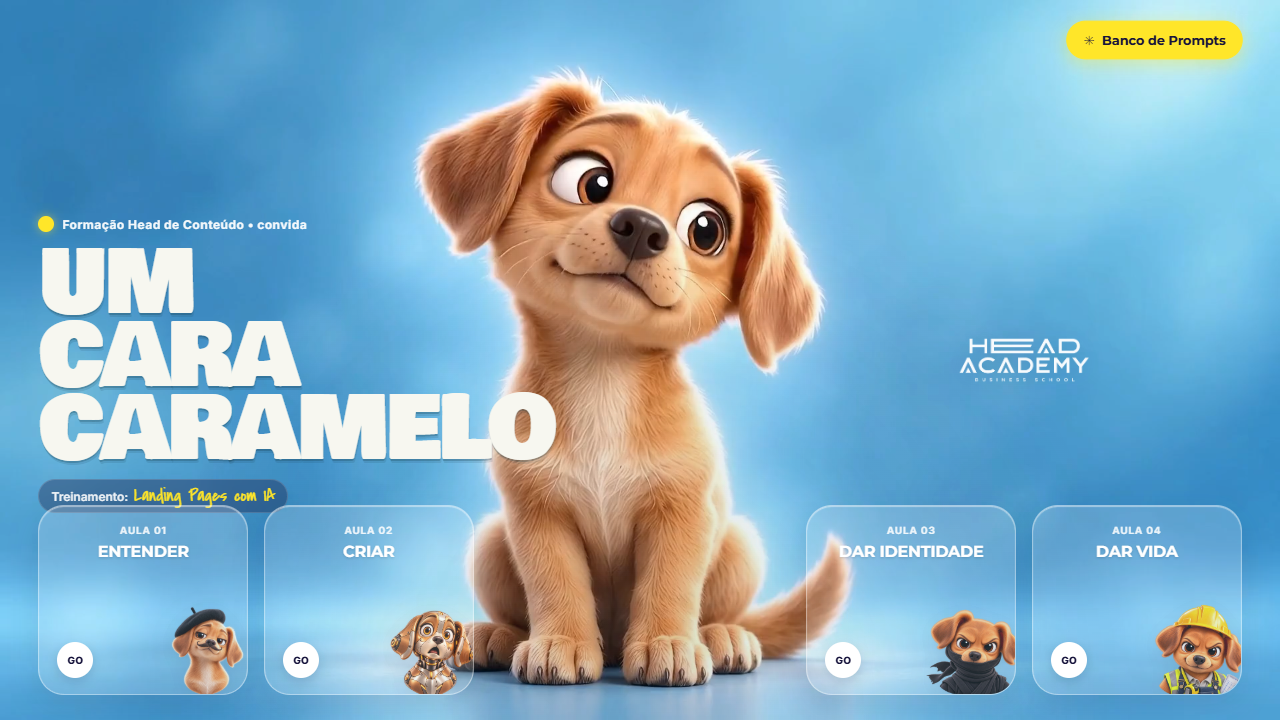
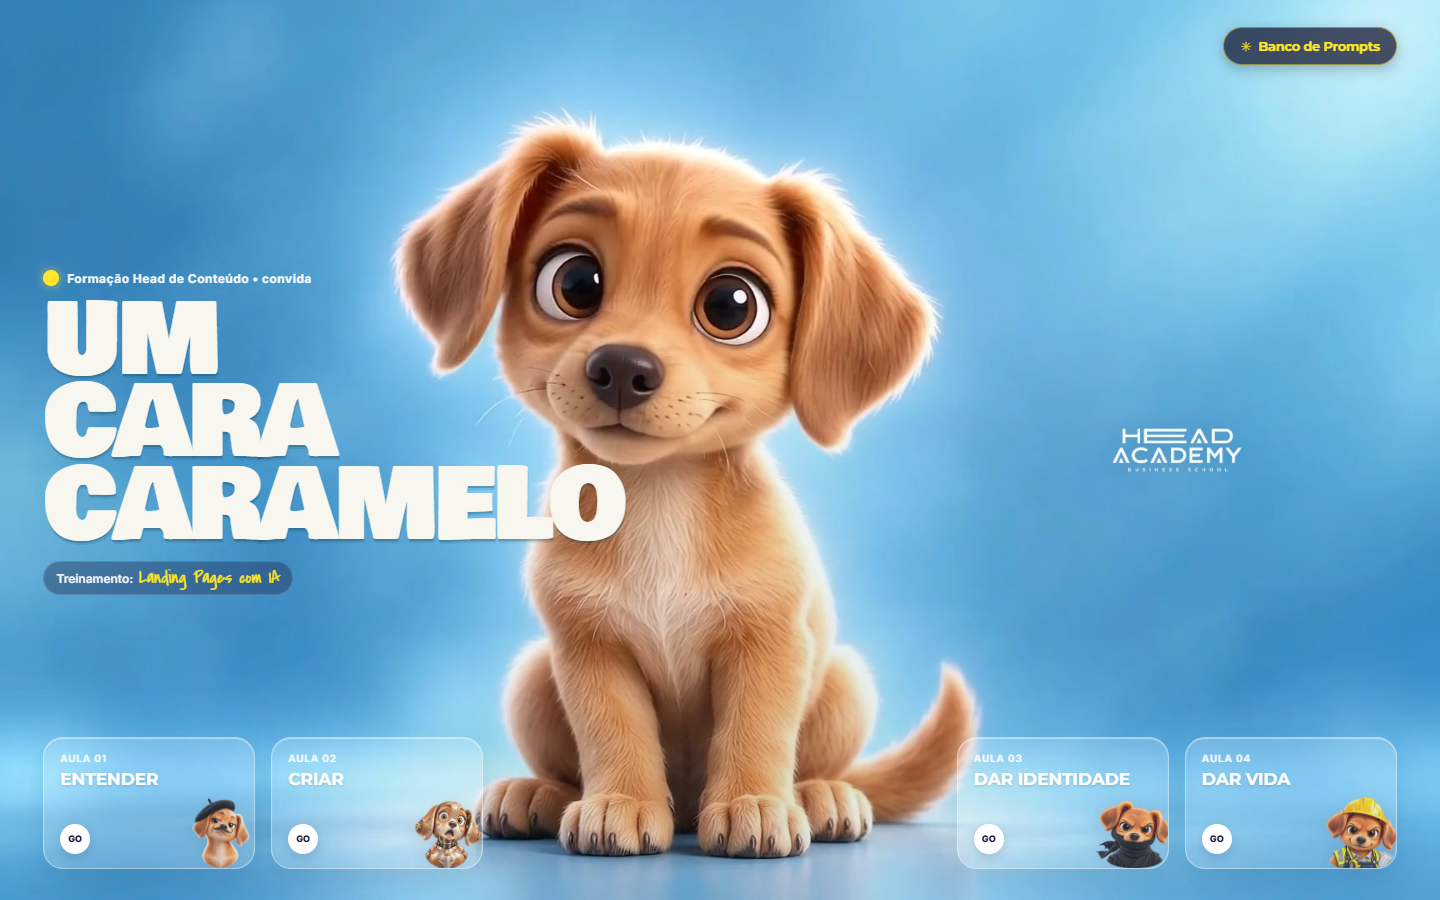
fix(aula-head): compactar cards das aulas na abertura

diff --git a/src/aula-head/intro.css b/src/aula-head/intro.css
@@ -13,11 +13,22 @@
 }
 .head-intro .mini-card-title {
   font-family: Montserrat, Inter, sans-serif;
-  font-size: clamp(12px, 1.25vw, 21px);
+  font-size: clamp(12px, 1.2vw, 18px);
 }
 .head-intro .prompt-bank-trigger-btn { gap: 7px; }
 .head-intro .hero-bottom-actions { pointer-events: none; }
-.head-intro .mini-game-card { pointer-events: auto; }
+.head-intro .mini-game-card {
+  pointer-events: auto;
+  height: clamp(112px, 16dvh, 132px);
+  min-height: 0;
+  padding: 14px 16px;
+  border-radius: 20px;
+  text-align: left;
+}
+.head-intro .mini-card-copy { margin-bottom: 0; }
+.head-intro .mini-card-lesson { margin-bottom: 4px; }
+.head-intro .mini-card-go-btn { width: 30px; height: 30px; font-size: 9px; }
+.head-intro .mini-card-bg-crop { width: 76px; height: 76px; bottom: -4px; right: -3px; }
 @media (max-width: 767px) {
   .head-intro.hero-scene { height: 100dvh; min-height: 0; position: fixed; overflow: hidden; }
   .head-intro .hero-bottom-actions {
@@ -39,7 +50,7 @@
   }
   .head-intro .mini-game-card {
     width: 100%;
-    height: clamp(88px, 13dvh, 112px);
+    height: clamp(84px, 11.5dvh, 96px);
     min-height: 0;
     padding: 12px;
   }
@@ -47,6 +58,7 @@
   .head-intro .mini-card-go-btn { position: absolute; left: 12px; bottom: 9px; width: 24px; height: 24px; font-size: 8px; }
   .head-intro .mini-card-title { font-size: clamp(12px, 3vw, 18px); max-width: 75%; }
   .head-intro .mini-card-lesson { font-size: 9px; }
+  .head-intro .mini-card-bg-crop { width: 62px; height: 62px; }
   .head-intro .left-copy-column { position: absolute; top: 16%; bottom: auto; left: 0; padding-top: 0; }
   .head-intro .hero-display-headline { font-size: clamp(36px, 11vw, 72px); }
   .head-intro .course-pill-tag { margin-top: 12px; font-size: 11px; }
@@ -62,7 +74,9 @@
   .head-intro .hero-display-headline { font-size: clamp(42px, 8vw, 80px); }
   .head-intro .left-copy-column { top: 16%; }
   .head-intro .hero-bottom-actions { bottom: 18px; }
-  .head-intro .mini-game-card { height: clamp(78px, 23dvh, 120px); }
+  .head-intro .mini-game-card { height: clamp(88px, 23dvh, 108px); padding: 12px; }
+  .head-intro .mini-card-go-btn { width: 26px; height: 26px; }
+  .head-intro .mini-card-bg-crop { width: 56px; height: 56px; }
 }
 @media (max-height: 500px) and (max-width: 767px) {
   .head-intro .left-copy-column { top: 22%; }
@@ -70,7 +84,7 @@
   .head-intro .hero-bottom-actions { display: flex; gap: 8px; }
   .head-intro .bottom-cards-cluster { display: contents; }
   .head-intro .mini-game-card { height: 70px; flex: 1; }
-  .head-intro .mini-card-copy { padding: 10px; }
+  .head-intro .mini-card-copy { padding: 0; }
   .head-intro .mini-card-title { font-size: 10px; max-width: 90%; }
   .head-intro .mini-card-go-btn { display: none; }
 }

diff --git a/docs/qa/aula-head-2026-10-22/README.md b/docs/qa/aula-head-2026-10-22/README.md
@@ -5,6 +5,7 @@ Versão de 22/10/2026: abertura interativa e quatro apresentações de quatro sl
 ## Comportamento atual
 
 - Abertura original recuperada com vídeo local controlado pelo mouse, logo HEAD e quatro cards de aula.
+- Cards de aula compactos: 112–132 px de altura no desktop, 84–96 px no celular e 88–108 px em paisagem baixa. Títulos alinhados à esquerda, personagens e indicador GO proporcionais.
 - Cada card abre a apresentação correspondente. Apenas os quatro slides dessa aula ficam disponíveis; o último botão retorna à abertura para escolher outra aula.
 - Cabeçalho, palco e navegação cabem na viewport. A tela principal não depende de rolagem vertical. Prompts integrais mantêm leitura interna quando necessário.
 - Sem “Meu projeto”, caderno, briefing pessoal, registros de entrega, exportação ou painéis “No seu projeto”. As demonstrações usam estado transitório, sem leitura ou gravação de projeto em localStorage.
@@ -25,6 +26,7 @@ O botão do Slide 02 foi conferido com `get_interaction({id: "magnetic-fill", fo
 | --- | --- |
 | Build | TypeScript e Vite concluídos. Aviso de tamanho apenas no bundle existente da Comunidade. |
 | Abertura | Vídeo carregado, áudio silenciado; olhar para cards esquerdos em 3,1s e direitos em 1,6s, conforme cronologia original. |
+| Cards compactos | Conferidos em 1440×900, 1280×720, 390×844 e 844×390, sem rolagem externa. |
 | Navegação | Quatro pontos e contador 01/04 a 04/04 em cada aula. Abas para trocar de aula removidas. Voltar ao início funciona no fim de cada aula. |
 | Viewports | 16 slides em 1280×720, 390×844 e 844×390: 48 estados sem overflow vertical externo, com rodapé dentro da janela. |
 | Movimento reduzido | Painel de ferramentas conferido sem overflow interno nas três dimensões, desconsiderando o deslocamento transitório da animação de entrada. |
